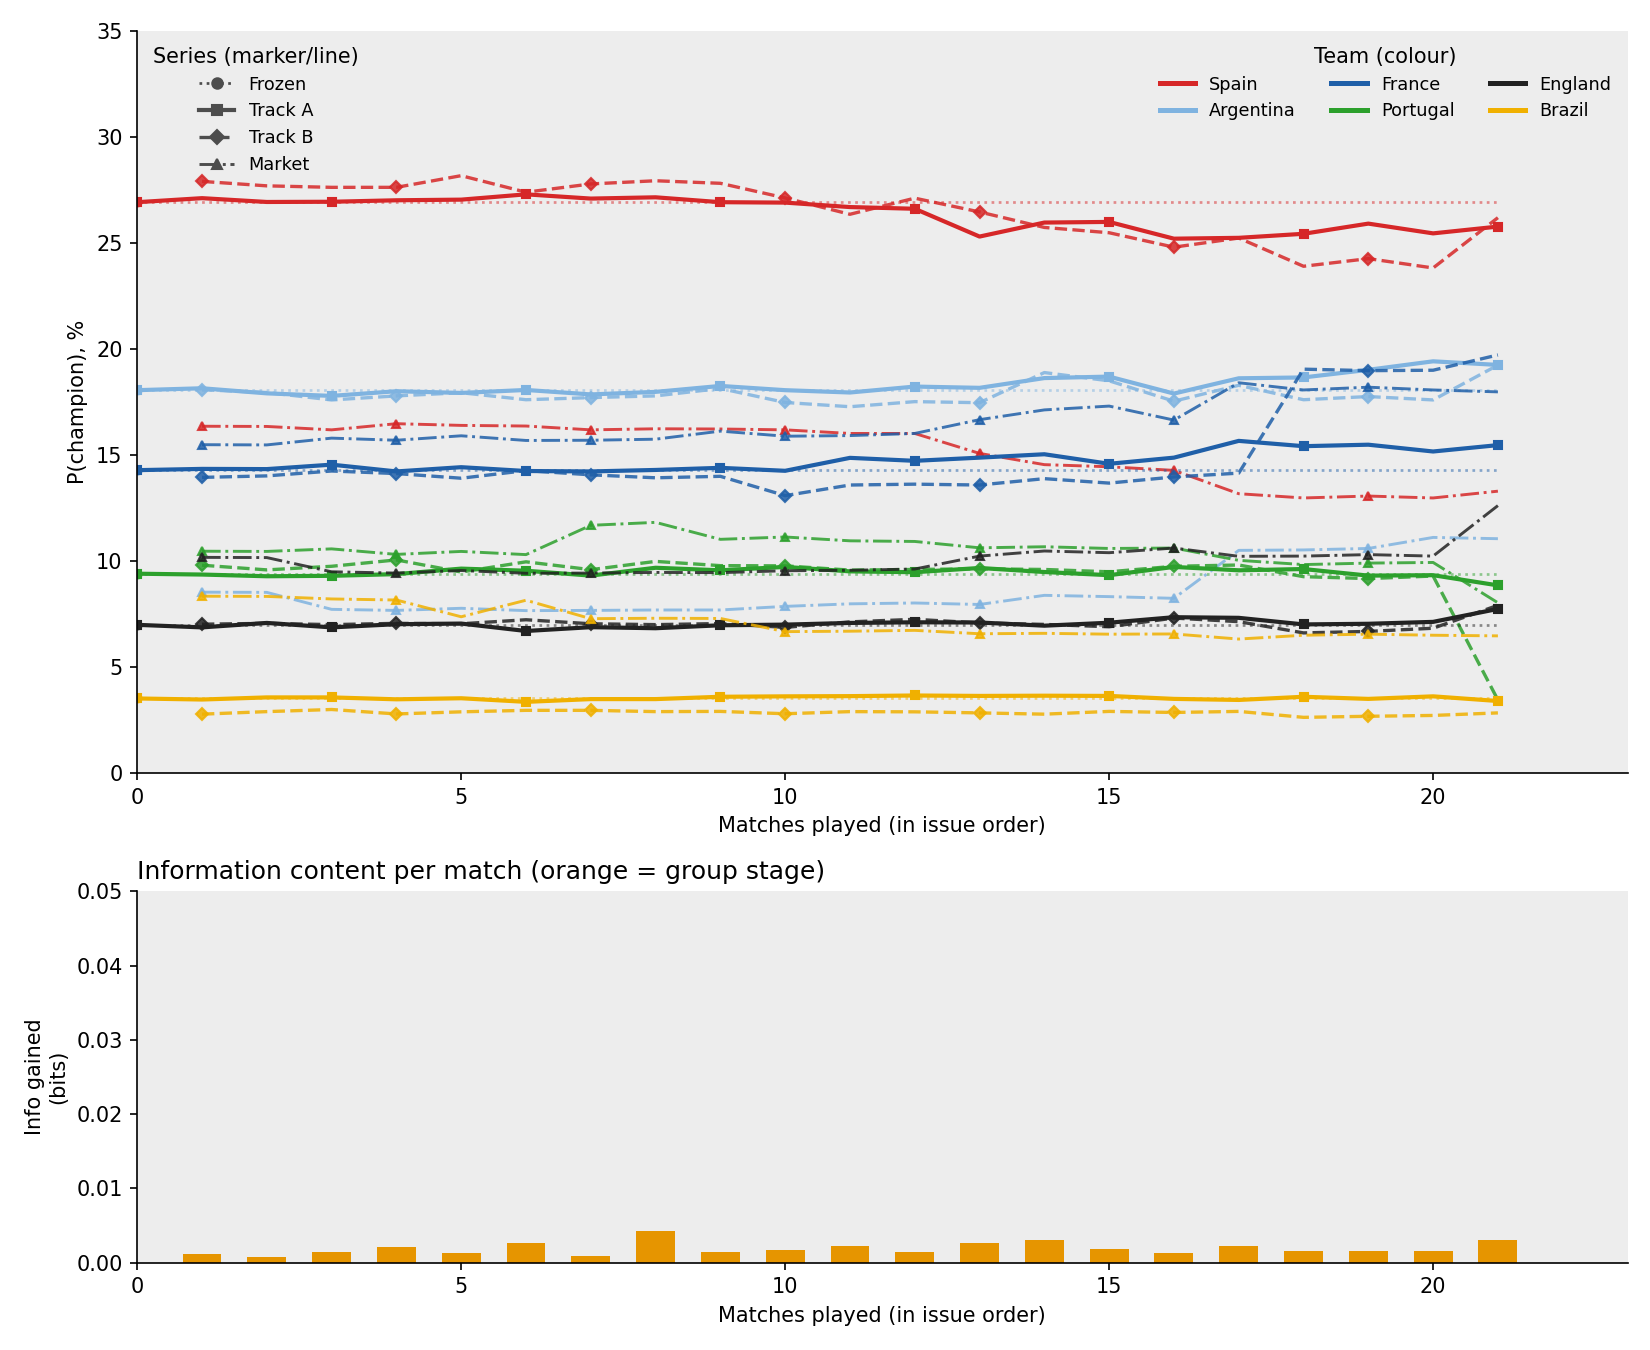
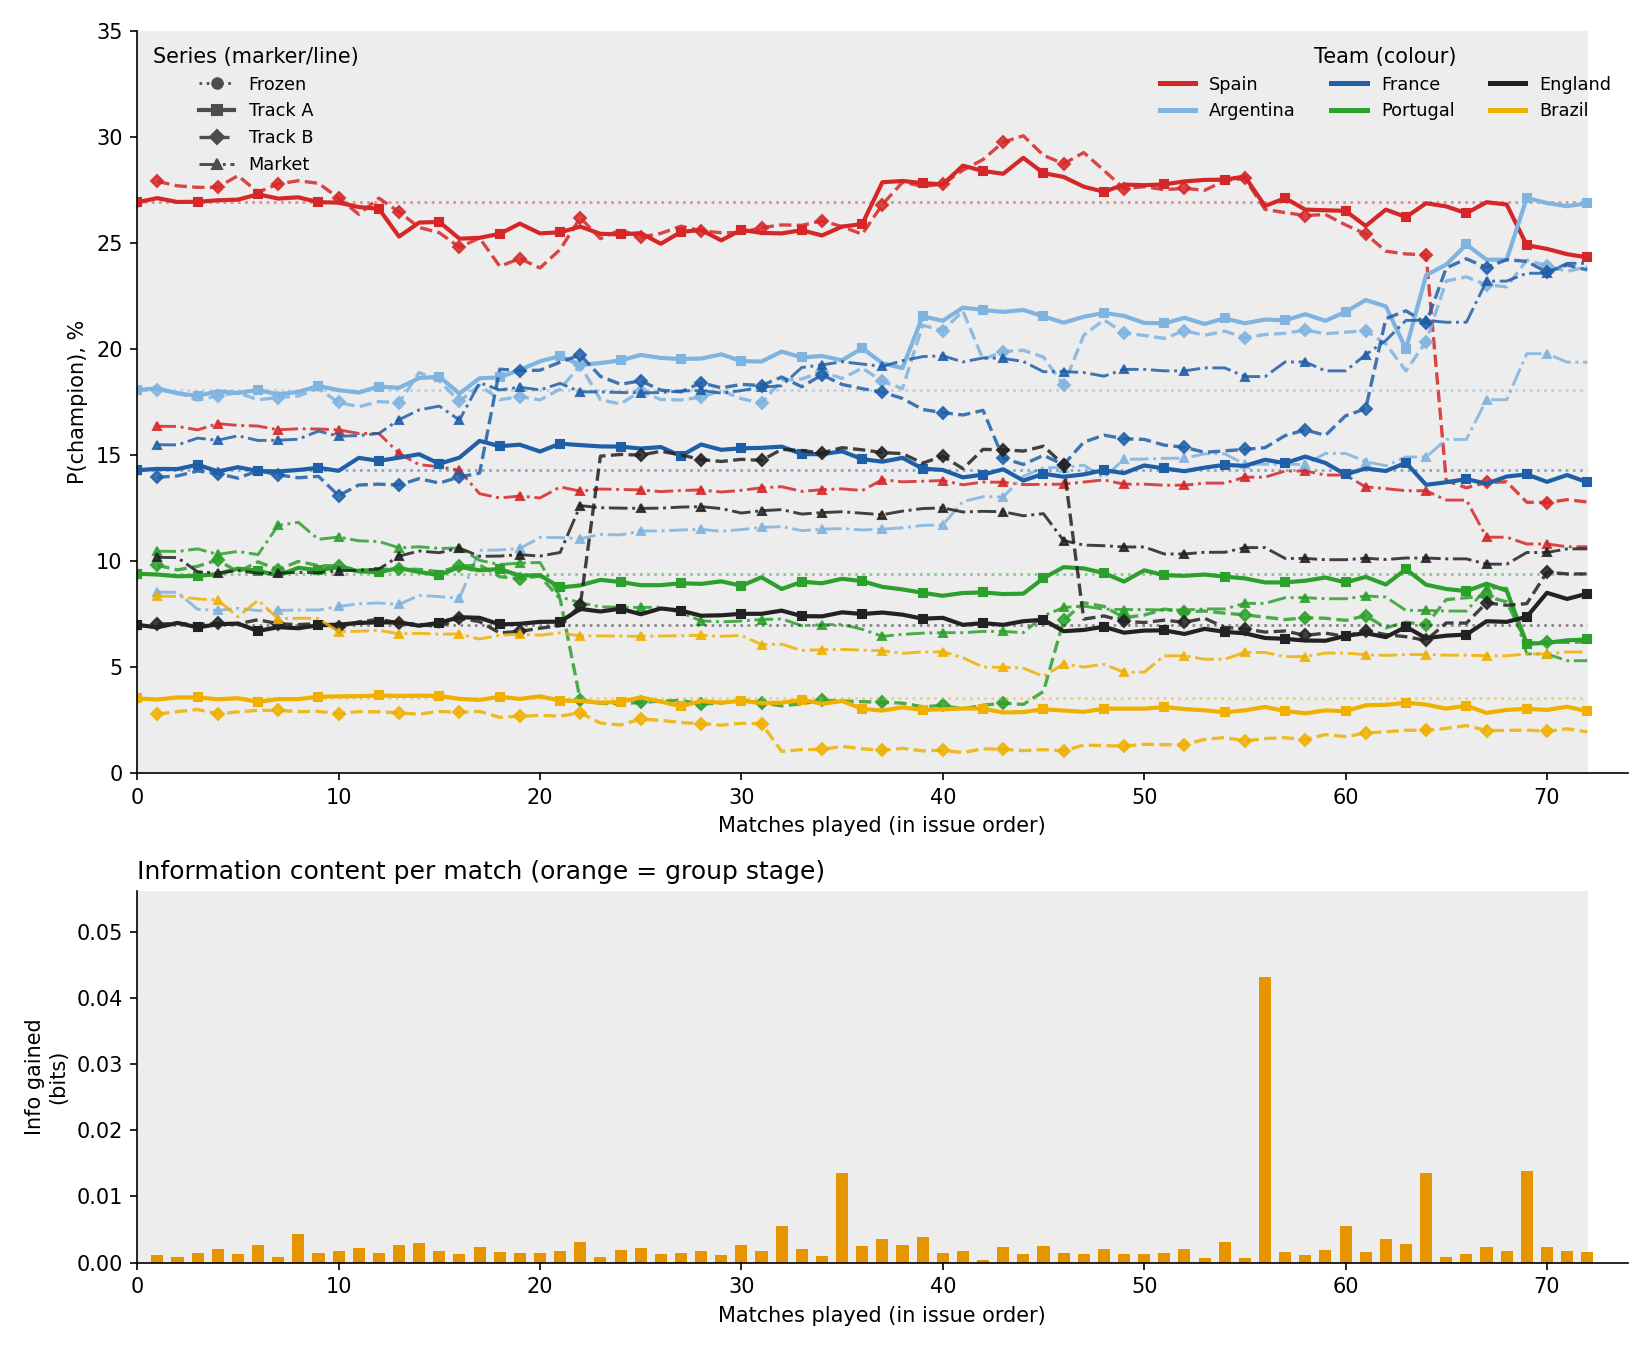
Live KO update: M94 USA 1-4 Belgium (R16)
Belgium won in regulation and advanced. Frozen-2 pick (Belgium 2-1)
scores 2 (correct 90' winner + advancer; predicted GD +1, actual +3).
Frozen-2 KO total now 43 (38 through M92 = official board, +3 M93 Spain,
+2 M94 Belgium); Frozen-1 32; re-conditioning value +11.
Living layer re-rendered through 22 KO results (PDF archive built by CI).

diff --git a/paper/live/ko_edition.tex b/paper/live/ko_edition.tex
@@ -1,30 +1,31 @@
 % GENERATED by scripts/render_live.py — do not edit by hand.
-\subsection*{Latest knockout edition: Round of 16, Portugal v Spain}
-\noindent Result 0--1, Spain advanced. Frozen~2 scored 3 pool points here (re-conditioning +3 vs Frozen~1). The result carried 0.157 bits.
+\subsection*{Latest knockout edition: Round of 16, United States v Belgium}
+\noindent Result 1--4, Belgium advanced. Frozen~2 scored 2 pool points here (re-conditioning +0 vs Frozen~1). The result carried 0.004 bits.
 
 \begin{center}\small
 \begin{tabular}{llccc}
 \toprule Match & Tie & F2 pts & F1 pts & F2$-$F1 \\ \midrule
-73 & South Africa v Canada & 3 & 0 & +3 \\
+73 & South Africa v Canada & 3 & 1 & +2 \\
 74 & Germany v Paraguay & 0 & 0 & +0 \\
 75 & Netherlands v Morocco & 4 & 0 & +4 \\
 76 & Brazil v Japan & 4 & 4 & +0 \\
 77 & France v Sweden & 2 & 2 & +0 \\
-78 & Ivory Coast v Norway & 2 & 0 & +2 \\
-79 & Mexico v Ecuador & 0 & 0 & +0 \\
-80 & England v Congo DR & 2 & 0 & +2 \\
+78 & Ivory Coast v Norway & 2 & 1 & +1 \\
+79 & Mexico v Ecuador & 0 & 4 & -4 \\
+80 & England v Congo DR & 2 & 2 & +0 \\
 81 & United States v Bosnia and Herzegovina & 4 & 2 & +2 \\
-82 & Belgium v Senegal & 1 & 0 & +1 \\
+82 & Belgium v Senegal & 1 & 1 & +0 \\
 83 & Portugal v Croatia & 4 & 0 & +4 \\
 84 & Spain v Austria & 2 & 2 & +0 \\
-85 & Switzerland v Algeria & 0 & 0 & +0 \\
-86 & Argentina v Cape Verde & 2 & 0 & +2 \\
+85 & Switzerland v Algeria & 0 & 2 & -2 \\
+86 & Argentina v Cape Verde & 1 & 1 & +0 \\
 87 & Colombia v Ghana & 2 & 0 & +2 \\
 88 & Australia v Egypt & 0 & 0 & +0 \\
-89 & France v Paraguay & 0 & 0 & +0 \\
+89 & France v Paraguay & 3 & 3 & +0 \\
 90 & Canada v Morocco & 0 & 0 & +0 \\
 91 & Brazil v Norway & 1 & 0 & +1 \\
-92 & England v Mexico & 0 & 1 & -1 \\
-93 & Portugal v Spain & 3 & 0 & +3 \\
-\midrule \textbf{Total} & & \textbf{36} & \textbf{11} & \textbf{+25} \\
+92 & England v Mexico & 3 & 3 & +0 \\
+93 & Portugal v Spain & 3 & 2 & +1 \\
+94 & United States v Belgium & 2 & 2 & +0 \\
+\midrule \textbf{Total} & & \textbf{43} & \textbf{32} & \textbf{+11} \\
 \bottomrule\end{tabular}\end{center}

diff --git a/paper/live/survival_colcomp.tex b/paper/live/survival_colcomp.tex
@@ -13,22 +13,22 @@ Team & KO & R16 & QF & SF & Final & Champion \\
 Team & KO & R16 & QF & SF & Final & Champion \\
 \midrule
 \endhead
-Spain & 98.9/100.0/100.0 & 79.5/100.0/100.0 & 62.4/100.0/100.0 & 51.5/87.0/74.9 & 38.9/57.3/37.6 & 26.9/38.0/22.8 \\
-Argentina & 98.9/100.0/100.0 & 71.3/100.0/100.0 & 59.2/91.5/88.1 & 42.8/70.1/51.2 & 30.1/47.5/31.7 & 18.1/23.6/14.1 \\
-France & 98.5/100.0/100.0 & 79.2/100.0/100.0 & 59.0/100.0/100.0 & 43.2/81.9/78.9 & 24.5/36.3/49.0 & 14.3/20.2/32.6 \\
-England & 99.0/100.0/100.0 & 71.7/100.0/100.0 & 46.5/100.0/100.0 & 28.9/64.5/65.2 & 14.6/29.7/30.6 & 07.0/11.0/11.9 \\
-Norway & 89.4/100.0/100.0 & 53.6/100.0/100.0 & 28.6/100.0/100.0 & 13.8/35.5/34.8 & 05.1/11.7/11.1 & 01.7/03.0/02.9 \\
-Colombia & 94.0/100.0/100.0 & 51.4/100.0/100.0 & 23.6/52.0/78.9 & 10.5/14.7/41.4 & 04.5/05.9/24.7 & 01.4/01.4/10.8 \\
-Switzerland & 94.0/100.0/100.0 & 63.0/100.0/100.0 & 28.8/48.0/21.1 & 10.6/13.1/05.1 & 04.0/04.8/01.4 & 01.2/01.1/00.2 \\
-Belgium & 96.4/100.0/100.0 & 58.0/100.0/100.0 & 28.0/63.1/58.7 & 08.0/09.8/16.1 & 03.0/02.8/04.6 & 00.9/00.8/01.7 \\
-Morocco & 88.8/100.0/100.0 & 37.9/100.0/100.0 & 17.1/100.0/100.0 & 05.8/18.1/21.1 & 01.5/03.0/06.8 & 00.3/00.8/02.4 \\
-United States & 82.3/100.0/100.0 & 39.9/100.0/100.0 & 13.1/36.9/41.3 & 02.7/03.2/09.0 & 00.7/00.5/02.0 & 00.1/00.1/00.6 \\
-Egypt & 76.6/100.0/100.0 & 26.8/100.0/100.0 & 05.7/08.5/11.9 & 00.9/02.0/02.2 & 00.2/00.3/00.5 & 00.0/00.0/00.0 \\
+Spain & 98.9/100.0/100.0 & 79.5/100.0/100.0 & 62.4/100.0/100.0 & 51.5/84.2/71.4 & 38.9/55.4/35.7 & 26.9/36.7/21.6 \\
+Argentina & 98.9/100.0/100.0 & 71.3/100.0/100.0 & 59.2/91.6/88.2 & 42.8/70.3/51.7 & 30.1/47.2/31.7 & 18.1/23.8/14.5 \\
+France & 98.5/100.0/100.0 & 79.2/100.0/100.0 & 59.0/100.0/100.0 & 43.2/81.7/79.4 & 24.5/37.0/49.6 & 14.3/20.5/32.7 \\
+England & 99.0/100.0/100.0 & 71.7/100.0/100.0 & 46.5/100.0/100.0 & 28.9/64.1/64.5 & 14.6/29.6/30.6 & 07.0/11.3/11.9 \\
+Norway & 89.4/100.0/100.0 & 53.6/100.0/100.0 & 28.6/100.0/100.0 & 13.8/35.9/35.5 & 05.1/11.9/12.0 & 01.7/03.0/03.1 \\
+Colombia & 94.0/100.0/100.0 & 51.4/100.0/100.0 & 23.6/52.0/79.1 & 10.5/15.1/41.1 & 04.5/06.0/24.1 & 01.4/01.5/10.6 \\
+Belgium & 96.4/100.0/100.0 & 58.0/100.0/100.0 & 28.0/100.0/100.0 & 08.0/15.8/28.6 & 03.0/04.5/08.3 & 00.9/01.3/03.0 \\
+Switzerland & 94.0/100.0/100.0 & 63.0/100.0/100.0 & 28.8/48.0/20.9 & 10.6/12.7/05.0 & 04.0/04.9/01.4 & 01.2/01.2/00.2 \\
+Morocco & 88.8/100.0/100.0 & 37.9/100.0/100.0 & 17.1/100.0/100.0 & 05.8/18.3/20.6 & 01.5/03.1/06.4 & 00.3/00.6/02.2 \\
+Egypt & 76.6/100.0/100.0 & 26.8/100.0/100.0 & 05.7/08.4/11.8 & 00.9/01.9/02.1 & 00.2/00.3/00.3 & 00.0/00.0/00.0 \\
 Mexico & 91.6/100.0/100.0 & 58.0/100.0/100.0 & 26.8/00.0/00.0 & 11.6/00.0/00.0 & 03.8/00.0/00.0 & 01.2/00.0/00.0 \\
 South Africa & 45.3/100.0/100.0 & 08.1/00.0/00.0 & 00.9/00.0/00.0 & 00.1/00.0/00.0 & 00.0/00.0/00.0 & 00.0/00.0/00.0 \\
 Canada & 88.4/100.0/100.0 & 51.7/100.0/100.0 & 20.7/00.0/00.0 & 05.9/00.0/00.0 & 01.6/00.0/00.0 & 00.4/00.0/00.0 \\
 Bosnia and Herzegovina & 62.4/100.0/100.0 & 15.9/00.0/00.0 & 02.6/00.0/00.0 & 00.3/00.0/00.0 & 00.0/00.0/00.0 & 00.0/00.0/00.0 \\
 Brazil & 98.4/100.0/100.0 & 64.6/100.0/100.0 & 38.1/00.0/00.0 & 20.2/00.0/00.0 & 08.5/00.0/00.0 & 03.5/00.0/00.0 \\
+United States & 82.3/100.0/100.0 & 39.9/100.0/100.0 & 13.1/00.0/00.0 & 02.7/00.0/00.0 & 00.7/00.0/00.0 & 00.1/00.0/00.0 \\
 Paraguay & 65.2/100.0/100.0 & 33.3/100.0/100.0 & 12.5/00.0/00.0 & 03.9/00.0/00.0 & 01.3/00.0/00.0 & 00.3/00.0/00.0 \\
 Australia & 45.3/100.0/100.0 & 18.9/00.0/00.0 & 05.6/00.0/00.0 & 01.5/00.0/00.0 & 00.4/00.0/00.0 & 00.1/00.0/00.0 \\
 Germany & 98.8/100.0/100.0 & 66.9/00.0/00.0 & 31.2/00.0/00.0 & 16.6/00.0/00.0 & 06.2/00.0/00.0 & 02.2/00.0/00.0 \\

diff --git a/paper/live/divergence.tex b/paper/live/divergence.tex
@@ -16,16 +16,15 @@ Team & Frozen & Track~A & Track~B & $\Delta$ (B$-$F) & Frozen & Track~A & Track~
 Team & Frozen & Track~A & Track~B & $\Delta$ (B$-$F) & Frozen & Track~A & Track~B & $\Delta$ (B$-$F) & Drift (Elo) \\
 \midrule
 \endhead
-Spain & 26.9 & 38.0 & 12.8 & $-14.2$ & 98.9 & 100.0 & 100.0 & $+1.1$ & $-75.5$ \\
-Argentina & 18.1 & 23.6 & 23.9 & $+5.9$ & 98.9 & 100.0 & 100.0 & $+1.1$ & $-58.6$ \\
-France & 14.3 & 20.2 & 23.6 & $+9.3$ & 98.5 & 100.0 & 100.0 & $+1.5$ & $+50.1$ \\
-England & 7.0 & 11.0 & 9.5 & $+2.5$ & 99.0 & 100.0 & 100.0 & $+1.0$ & $-12.8$ \\
+Spain & 26.9 & 36.7 & 12.8 & $-14.2$ & 98.9 & 100.0 & 100.0 & $+1.1$ & $-75.5$ \\
+Argentina & 18.1 & 23.8 & 23.9 & $+5.9$ & 98.9 & 100.0 & 100.0 & $+1.1$ & $-58.6$ \\
+France & 14.3 & 20.5 & 23.6 & $+9.3$ & 98.5 & 100.0 & 100.0 & $+1.5$ & $+50.1$ \\
+England & 7.0 & 11.3 & 9.5 & $+2.5$ & 99.0 & 100.0 & 100.0 & $+1.0$ & $-12.8$ \\
 Norway & 1.7 & 3.0 & 2.0 & $+0.3$ & 89.4 & 100.0 & 100.0 & $+10.6$ & $-17.6$ \\
-Colombia & 1.4 & 1.4 & 5.5 & $+4.0$ & 94.0 & 100.0 & 100.0 & $+6.0$ & $+126.0$ \\
-Switzerland & 1.2 & 1.1 & 0.3 & $-1.0$ & 94.0 & 100.0 & 100.0 & $+6.0$ & $-93.1$ \\
-Belgium & 0.9 & 0.8 & 1.3 & $+0.5$ & 96.4 & 100.0 & 100.0 & $+3.6$ & $+56.1$ \\
-Morocco & 0.3 & 0.8 & 1.1 & $+0.8$ & 88.8 & 100.0 & 100.0 & $+11.2$ & $+79.3$ \\
-United States & 0.1 & 0.1 & 0.4 & $+0.3$ & 82.3 & 100.0 & 100.0 & $+17.7$ & $+126.1$ \\
+Colombia & 1.4 & 1.5 & 5.5 & $+4.0$ & 94.0 & 100.0 & 100.0 & $+6.0$ & $+126.0$ \\
+Belgium & 0.9 & 1.3 & 1.3 & $+0.5$ & 96.4 & 100.0 & 100.0 & $+3.6$ & $+56.1$ \\
+Switzerland & 1.2 & 1.2 & 0.3 & $-1.0$ & 94.0 & 100.0 & 100.0 & $+6.0$ & $-93.1$ \\
+Morocco & 0.3 & 0.6 & 1.1 & $+0.8$ & 88.8 & 100.0 & 100.0 & $+11.2$ & $+79.3$ \\
 Egypt & 0.0 & 0.0 & 0.0 & 0.0 & 76.6 & 100.0 & 100.0 & $+23.4$ & $+8.8$ \\
 Algeria & 0.0 & 0.0 & 0.1 & $+0.1$ & 57.4 & 100.0 & 100.0 & $+42.6$ & $+92.9$ \\
 Australia & 0.1 & 0.0 & 0.4 & $+0.3$ & 45.3 & 100.0 & 100.0 & $+54.7$ & $+40.5$ \\
@@ -62,6 +61,7 @@ South Korea & 0.1 & 0.0 & --- & --- & 66.2 & 0.0 & 0.0 & $-66.2$ & $-55.1$ \\
 Sweden & 0.0 & 0.0 & 0.9 & $+0.8$ & 64.2 & 100.0 & 100.0 & $+35.8$ & $+161.0$ \\
 Tunisia & 0.0 & 0.0 & --- & --- & 40.2 & 0.0 & 0.0 & $-40.2$ & $-28.2$ \\
 Turkey & 1.3 & 0.0 & --- & --- & 80.4 & 0.0 & 0.0 & $-80.4$ & $-51.2$ \\
+United States & 0.1 & 0.0 & 0.4 & $+0.3$ & 82.3 & 100.0 & 100.0 & $+17.7$ & $+126.1$ \\
 Uruguay & 1.0 & 0.0 & --- & --- & 87.8 & 0.0 & 0.0 & $-87.8$ & $+34.4$ \\
 Uzbekistan & 0.0 & 0.0 & --- & --- & 38.5 & 0.0 & 0.0 & $-38.5$ & $-87.6$ \\
 \bottomrule

diff --git a/paper/live/champ_table.tex b/paper/live/champ_table.tex
@@ -8,14 +8,14 @@
       \toprule
       Team & Frozen (\%) & Track~A (\%) & Track~B (\%) & Market (\%) & $\Delta$ (B$-$F) & Finalist (now) & Semi (now) & QF (now) \\
       \midrule
-      Spain          & 26.9\% & 38.0\% & 12.8\% & 18.1\% & -14.2 & 57.3\% & 87.0\% & 100.0\% \\
-      Argentina      & 18.1\% & 23.6\% & 23.9\% & 17.1\% & +5.9 & 47.5\% & 70.1\% & 91.5\% \\
-      France         & 14.3\% & 20.2\% & 23.6\% & 32.9\% & +9.3 & 36.3\% & 81.9\% & 100.0\% \\
-      England        & 7.0\% & 11.0\% & 9.5\% & 15.4\% & +2.5 & 29.7\% & 64.5\% & 100.0\% \\
-      Norway         & 1.7\% & 3.0\% & 2.0\% & 4.8\% & +0.3 & 11.7\% & 35.5\% & 100.0\% \\
-      Colombia       & 1.4\% & 1.4\% & 5.5\% & 3.1\% & +4.0 & 5.9\% & 14.7\% & 52.0\% \\
-      Switzerland    & 1.2\% & 1.1\% & 0.3\% & 0.9\% & -1.0 & 4.8\% & 13.1\% & 48.0\% \\
-      Belgium        & 0.9\% & 0.8\% & 1.3\% & 1.4\% & +0.5 & 2.8\% & 9.8\% & 63.1\% \\
+      Spain          & 26.9\% & 36.7\% & 12.8\% & 18.8\% & -14.2 & 55.4\% & 84.2\% & 100.0\% \\
+      Argentina      & 18.1\% & 23.8\% & 23.9\% & 17.8\% & +5.9 & 47.2\% & 70.3\% & 91.6\% \\
+      France         & 14.3\% & 20.5\% & 23.6\% & 33.2\% & +9.3 & 37.0\% & 81.7\% & 100.0\% \\
+      England        & 7.0\% & 11.3\% & 9.5\% & 15.0\% & +2.5 & 29.6\% & 64.1\% & 100.0\% \\
+      Norway         & 1.7\% & 3.0\% & 2.0\% & 5.4\% & +0.3 & 11.9\% & 35.9\% & 100.0\% \\
+      Colombia       & 1.4\% & 1.5\% & 5.5\% & 3.3\% & +4.0 & 6.0\% & 15.1\% & 52.0\% \\
+      Belgium        & 0.9\% & 1.3\% & 1.3\% & 2.5\% & +0.5 & 4.5\% & 15.8\% & 100.0\% \\
+      Switzerland    & 1.2\% & 1.2\% & 0.3\% & 1.0\% & -1.0 & 4.9\% & 12.7\% & 48.0\% \\
       \bottomrule
     \end{tabular*}}
     \begin{tablenotes}\notesize

diff --git a/paper/live/revision_report.tex b/paper/live/revision_report.tex
@@ -86,11 +86,11 @@ G & M & Fixture & Shots (H--A) & On target (H--A) & Poss\% (H--A) & Frozen H/D/A
 \end{footnotesize}
 \end{table}
 
-\paragraph{Forecast revision: marginal effect of this result.} Champion-probability movement attributable to match 72's result (this edition vs.\ the same forecast without it): Spain +13.2; Argentina -3.1; France +5.6; England +3.5; Norway +1.2; Colombia -0.7; Switzerland -0.1; Belgium +0.2.
+\paragraph{Forecast revision: marginal effect of this result.} Champion-probability movement attributable to match 72's result (this edition vs.\ the same forecast without it): Spain +11.9; Argentina -2.9; France +5.9; England +3.7; Norway +1.3; Colombia -0.6; Belgium +0.7.
 
-Track~A vs.\ Frozen: Spain +11.0; Argentina +5.5; France +5.9; England +4.0; Norway +1.3; Switzerland -0.1; Belgium -0.1.
+Track~A vs.\ Frozen: Spain +9.8; Argentina +5.7; France +6.2; England +4.3; Norway +1.3; Colombia +0.1; Belgium +0.4; Switzerland -0.1.
 
-Track~B vs.\ Track~A: Spain -25.2; Argentina +0.3; France +3.4; England -1.6; Norway -1.0; Colombia +4.0; Switzerland -0.8; Belgium +0.6.
+Track~B vs.\ Track~A: Spain -23.9; Argentina +0.1; France +3.1; England -1.8; Norway -1.0; Colombia +4.0; Switzerland -0.9.
 
 \paragraph{Forecast vintages.} Track~B champion probabilities, one row per issued edition, in issue order; the locked M000 (Frozen baseline) row never changes.
 

diff --git a/paper/live/abstract_live.tex b/paper/live/abstract_live.tex
@@ -1,2 +1,2 @@
 % GENERATED by scripts/render_live.py — do not edit by hand.
-Conditioned on 72 results, Track~A moves Spain from 26.9\% to 38.0\%, Argentina from 18.1\% to 23.6\%, and France from 14.3\% to 20.2\%. The 72 results have revealed 0.217 bits (3.3\% of the 6.6-bit tournament maximum). Track~B (live Elo + bookmaker odds) leads with Argentina at 23.9\% and France at 23.6\%.
+Conditioned on 72 results, Track~A moves Spain from 26.9\% to 36.7\%, Argentina from 18.1\% to 23.8\%, and France from 14.3\% to 20.5\%. The 72 results have revealed 0.217 bits (3.3\% of the 6.6-bit tournament maximum). Track~B (live Elo + bookmaker odds) leads with Argentina at 23.9\% and France at 23.6\%.

diff --git a/paper/live/discussion_live.tex b/paper/live/discussion_live.tex
@@ -1,2 +1,2 @@
 % GENERATED by scripts/render_live.py — do not edit by hand.
-Through 72 matches and 0.217 bits (3.3\% of maximum), Spain leads at 38.0\%. The entry has accumulated 61 pool points at a mean Brier of 0.50. The most pressure on a pre-registered revision comes from United States (100.0\% advance). The key question for the remainder of the knockout stage is whether the information-concentration pattern (H1, H3) holds as elimination pressure intensifies.
+Through 72 matches and 0.217 bits (3.3\% of maximum), Spain leads at 36.7\%. The entry has accumulated 61 pool points at a mean Brier of 0.50. The most pressure on a pre-registered revision comes from United States (100.0\% advance). The key question for the remainder of the knockout stage is whether the information-concentration pattern (H1, H3) holds as elimination pressure intensifies.

diff --git a/paper/live/sec36_live.tex b/paper/live/sec36_live.tex
@@ -1,2 +1,2 @@
 % GENERATED by scripts/render_live.py — do not edit by hand.
-With 72 of 104 results revealed, the tournament has delivered 0.217 bits toward the champion distribution (3.3\% of the 6.6-bit maximum). The largest movement is Spain (24.8\% $\to$ 38.0\%), driven primarily by the result channel. Track~A and Track~B remain close for Spain: Track~A 38.0\%, Track~B 12.8\% (gap 25.2~pp). H1 (information concentration) and H3 (late arrival) remain testable only after KO-stage results; H2 (elimination spikes) is pending the first high-probability team exit.
+With 72 of 104 results revealed, the tournament has delivered 0.217 bits toward the champion distribution (3.3\% of the 6.6-bit maximum). The largest movement is Spain (24.8\% $\to$ 36.7\%), driven primarily by the result channel. Track~A and Track~B remain close for Spain: Track~A 36.7\%, Track~B 12.8\% (gap 23.9~pp). H1 (information concentration) and H3 (late arrival) remain testable only after KO-stage results; H2 (elimination spikes) is pending the first high-probability team exit.

diff --git a/paper/live/stats.tex b/paper/live/stats.tex
@@ -1,7 +1,7 @@
 % GENERATED by scripts/render_live.py — do not edit by hand.
 % GENERATED by scripts/live_stats.py — do not edit by hand.
 \def\liveVersionLine{Live edition --- after match 72, Congo DR 3--1 Uzbekistan (27 June 2026)}
-\def\liveAbstractRevision{ Conditioned on the 72 results played so far, this edition's forecast has Spain at 38.0 percent, Argentina at 23.6, and France at 20.2.}
+\def\liveAbstractRevision{ Conditioned on the 72 results played so far, this edition's forecast has Spain at 36.7 percent, Argentina at 23.8, and France at 20.5.}
 \def\liveUpdateLog{ Live revision log --- results conditioned into this edition: M1 Mexico 2--0 South Africa; M2 South Korea 2--1 Czechia; M3 Canada 1--1 Bosnia and Herzegovina; M4 United States 4--1 Paraguay; M5 Haiti 0--1 Scotland; M6 Australia 2--0 Turkey; M7 Brazil 1--1 Morocco; M8 Qatar 1--1 Switzerland; M9 Ivory Coast 1--0 Ecuador; M10 Germany 7--1 Curaçao; M11 Netherlands 2--2 Japan; M12 Sweden 5--1 Tunisia; M13 Saudi Arabia 1--1 Uruguay; M14 Spain 0--0 Cape Verde; M15 Iran 2--2 New Zealand; M16 Belgium 1--1 Egypt; M17 France 3--1 Senegal; M18 Iraq 1--4 Norway; M19 Argentina 3--0 Algeria; M20 Austria 3--1 Jordan; M21 Ghana 1--0 Panama; M22 England 4--2 Croatia; M23 Portugal 1--1 Congo DR; M24 Uzbekistan 1--3 Colombia; M25 Czechia 1--1 South Africa; M26 Switzerland 4--1 Bosnia and Herzegovina; M27 Canada 6--0 Qatar; M28 Mexico 1--0 South Korea; M29 Brazil 3--0 Haiti; M30 Scotland 0--1 Morocco; M31 Turkey 0--1 Paraguay; M32 United States 2--0 Australia; M33 Germany 2--1 Ivory Coast; M34 Ecuador 0--0 Curaçao; M35 Netherlands 5--1 Sweden; M36 Tunisia 0--4 Japan; M37 Uruguay 2--2 Cape Verde; M38 Spain 4--0 Saudi Arabia; M39 Belgium 0--0 Iran; M40 New Zealand 1--3 Egypt; M41 Norway 3--2 Senegal; M42 France 3--0 Iraq; M43 Argentina 2--0 Austria; M44 Jordan 1--2 Algeria; M45 England 0--0 Ghana; M46 Panama 0--1 Croatia; M47 Portugal 5--0 Uzbekistan; M48 Colombia 1--0 Congo DR; M49 Scotland 0--3 Brazil; M50 Morocco 4--2 Haiti; M51 Switzerland 2--1 Canada; M52 Bosnia and Herzegovina 3--1 Qatar; M53 Czechia 0--3 Mexico; M54 South Africa 1--0 South Korea; M55 Curaçao 0--2 Ivory Coast; M56 Ecuador 2--1 Germany; M57 Japan 1--1 Sweden; M58 Tunisia 1--3 Netherlands; M59 Turkey 3--2 United States; M60 Paraguay 0--0 Australia; M61 Norway 1--4 France; M62 Senegal 5--0 Iraq; M63 Egypt 1--1 Iran; M64 New Zealand 1--5 Belgium; M65 Cape Verde 0--0 Saudi Arabia; M66 Uruguay 0--1 Spain; M67 Panama 0--2 England; M68 Croatia 2--1 Ghana; M69 Algeria 3--3 Austria; M70 Jordan 1--3 Argentina; M71 Colombia 0--0 Portugal; M72 Congo DR 3--1 Uzbekistan. All forecast tables, the abstract headline, and the trajectory figure are re-stated on this information; the locked pre-kickoff edition is preserved at tag prereg-2026.}
 \def\liveDocumented{72}
 \def\liveCumPoints{61}